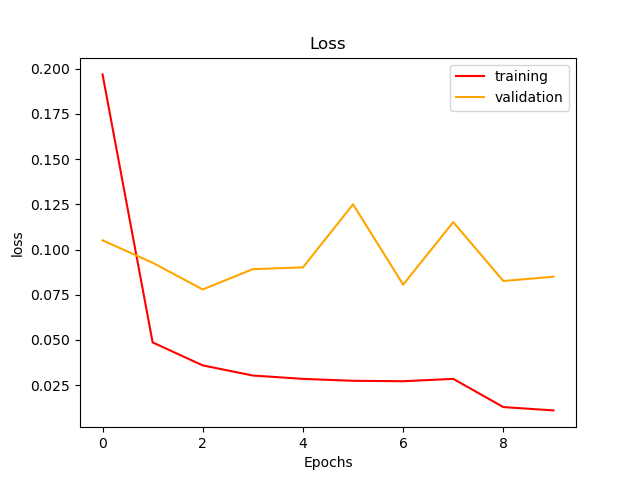
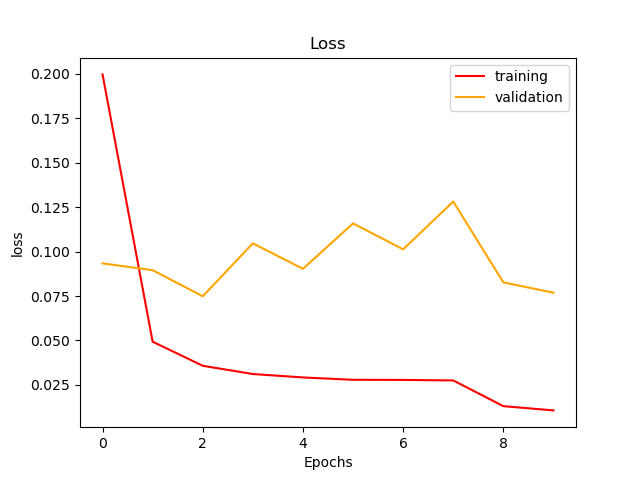
adding confusion matrix, classification report, updating readme

diff --git a/network_two_letters.py b/network_two_letters.py
@@ -5,23 +5,24 @@ import numpy as np
 import tensorflow as tf
 
 import matplotlib.pyplot as plt
-# import PIL
-# import PIL.Image
+import PIL
+import PIL.Image
 from tensorflow.keras.callbacks import EarlyStopping, ReduceLROnPlateau,ModelCheckpoint
 from keras.models import Model, Sequential
 from keras.layers import Dense, Flatten
 from keras.layers.convolutional import Conv1D, MaxPooling1D
 from sklearn.model_selection import train_test_split
 import pathlib
+from sklearn import metrics
 
 imgSize = 28
 classCount = 26
-batch_size = 128
+batch_size = 256
 
 AUTOTUNE = tf.data.AUTOTUNE
 
-
 train_dir = pathlib.Path('dataset/train/two_letters_combined/first')
+
 list_ds = tf.data.Dataset.list_files(str(train_dir/'*/*'), shuffle=True)
 image_count = len(list_ds)
 list_ds = list_ds.shuffle(image_count, reshuffle_each_iteration=True)
@@ -33,12 +34,8 @@ val_image_count = len(list_ds2)
 list_ds2 = list_ds2.shuffle(val_image_count, reshuffle_each_iteration=True)
 val_ds = list_ds2.take(val_image_count)
 
-# val_ds = list_ds.take(0)
-
-train_size = tf.data.experimental.cardinality(train_ds).numpy()
-print(train_size)
-val_size = tf.data.experimental.cardinality(val_ds).numpy()
-print(val_size)
+print(tf.data.experimental.cardinality(train_ds).numpy())
+print(tf.data.experimental.cardinality(val_ds).numpy())
 
 # class_names = np.array(sorted([item.name for item in data_dir.glob('*')]))
 class_names = ['a', 'b', 'c', 'd', 'e', 'f', 'g', 'h', 'i', 'j', 'k', 'l', 'm', 'n', 'o', 'p', 'q', 'r', 's', 't', 'u', 'v', 'w', 'x', 'y', 'z']
@@ -46,30 +43,22 @@ print(class_names)
 
 def get_label(file_path):
     parts = tf.strings.split(file_path, os.path.sep)
-    # The second to last is the class-directory
     one_hot = parts[-2] == class_names
     return one_hot
 
 def decode_img(img):
-    # convert the compressed string to a 1D uint8 tensor
     img = tf.image.decode_png(img, channels=1)
-    # resize the image to the desired size
-    # img = tf.image.resize(img, [imgSize, imgSize])
-    # img = tf.cast(tf.round(img), "int32")
-    # return tf.where(img > 100, 0.0, 1.0)
+    img = img / 255
     return img
 
 def process_path(file_path):
     label = get_label(file_path)
-    # load the raw data from the file as a string
     img = tf.io.read_file(file_path)
     img = decode_img(img)
     return img, label
 
-# Set `num_parallel_calls` so multiple images are loaded/processed in parallel.
 train_ds = train_ds.map(process_path, num_parallel_calls=AUTOTUNE)
 val_ds = val_ds.map(process_path, num_parallel_calls=AUTOTUNE)
-
 
 def configure_for_performance(ds):
     ds = ds.cache()
@@ -81,15 +70,10 @@ def configure_for_performance(ds):
 train_ds = configure_for_performance(train_ds)
 val_ds = configure_for_performance(val_ds)
 
-# for image, label in train_ds.take(1):
-#     print("Image shape: ", image.numpy().shape)
-#     print("Label: ", label.numpy())
-
-inputs = tf.keras.Input(shape=(imgSize,imgSize,1))
 model1 = tf.keras.Sequential([ 
-    inputs,
-    tf.keras.layers.experimental.preprocessing.Rescaling(1./255),
-    tf.keras.layers.Conv2D(filters = 32, kernel_size = (5,5),padding = 'Same', activation ='relu',input_shape=(imgSize,imgSize,1)),
+    tf.keras.Input(shape=(imgSize,imgSize,1)),
+    # tf.keras.layers.experimental.preprocessing.Rescaling(1./255),
+    tf.keras.layers.Conv2D(filters = 32, kernel_size = (5,5),padding = 'Same', activation ='relu'),
     tf.keras.layers.Conv2D(filters = 32, kernel_size = (5,5),padding = 'Same', activation ='relu'),
     tf.keras.layers.MaxPooling2D(pool_size=(2,2)),
     tf.keras.layers.Dropout(0.25),
@@ -104,7 +88,7 @@ model1 = tf.keras.Sequential([
 ])
 
 model1.compile(optimizer='rmsprop',loss='categorical_crossentropy',metrics=['accuracy'])
- 
+
 MCP = ModelCheckpoint('model/two_letters/Best_points.h5',verbose=1,save_best_only=True,monitor='val_accuracy',mode='max')
 ES = EarlyStopping(monitor='val_accuracy',min_delta=0,verbose=0,restore_best_weights = True,patience=5,mode='max')
 RLP = ReduceLROnPlateau(monitor='val_loss',patience=5,factor=0.2,min_lr=0.0001)
@@ -115,14 +99,7 @@ history = model1.fit(
         epochs=10,
         callbacks=[MCP,ES,RLP])
 
-# evaluate the model
-scores = model1.evaluate(train_ds)
-print("Train: %s: %.2f%%" % (model1.metrics_names[1], scores[1]*100))
-scores = model1.evaluate(val_ds)
-print("Test: %s: %.2f%%" % (model1.metrics_names[1], scores[1]*100))
-
-model1.save("model/two_letters/my_model")
-
+# save graph of accuracy and loss
 epochs = history.epoch
 loss = history.history['loss']
 validation_loss = history.history['val_loss']
@@ -146,3 +123,21 @@ plt.plot(epochs, acc, c='red', label='training')
 plt.plot(epochs, validation_acc, c='orange', label='validation')
 plt.legend(loc='best')
 plt.savefig('two_letters_acc.png')
+
+# load model with best val accuracy
+# evaluate the model
+model1 = tf.keras.models.load_model('model/two_letters/Best_points.h5')
+
+scores = model1.evaluate(train_ds)
+print("Train best val accuracy model: %s: %.2f%%" % (model1.metrics_names[1], scores[1]*100))
+scores = model1.evaluate(val_ds)
+print("Test best val accuracy model: %s: %.2f%%" % (model1.metrics_names[1], scores[1]*100))
+
+class_names = np.array(class_names)
+val_labels=[]
+val_predicted=[]
+for x, y in val_ds:
+    val_predicted.extend(class_names[model1.predict(x).argmax(axis=1)])
+    val_labels.extend(class_names[y.numpy().argmax(axis=1)])
+print(metrics.confusion_matrix(val_labels, val_predicted, labels=class_names))
+print(metrics.classification_report(val_labels, val_predicted, labels=class_names))

diff --git a/network_one_letter.py b/network_one_letter.py
@@ -13,6 +13,7 @@ from keras.layers import Dense, Flatten
 from keras.layers.convolutional import Conv1D, MaxPooling1D
 from sklearn.model_selection import train_test_split
 import pathlib
+from sklearn import metrics
 
 imgSize = 28
 classCount = 26
@@ -86,11 +87,10 @@ def configure_for_performance(ds):
 train_ds = configure_for_performance(train_ds)
 val_ds = configure_for_performance(val_ds)
 
-inputs = tf.keras.Input(shape=(imgSize,imgSize,1))
 model1 = tf.keras.Sequential([ 
-    inputs,
+    tf.keras.Input(shape=(imgSize,imgSize,1)),
     # tf.keras.layers.experimental.preprocessing.Rescaling(1./255),
-    tf.keras.layers.Conv2D(filters = 32, kernel_size = (5,5),padding = 'Same', activation ='relu',input_shape=(imgSize,imgSize,1)),
+    tf.keras.layers.Conv2D(filters = 32, kernel_size = (5,5),padding = 'Same', activation ='relu'),
     tf.keras.layers.Conv2D(filters = 32, kernel_size = (5,5),padding = 'Same', activation ='relu'),
     tf.keras.layers.MaxPooling2D(pool_size=(2,2)),
     tf.keras.layers.Dropout(0.25),
@@ -106,8 +106,6 @@ model1 = tf.keras.Sequential([
 
 model1.compile(optimizer='rmsprop',loss='categorical_crossentropy',metrics=['accuracy'])
 
-# model1 = tf.keras.models.load_model('model/one_letter/my_model')
- 
 MCP = ModelCheckpoint('model/one_letter/Best_points.h5',verbose=1,save_best_only=True,monitor='val_accuracy',mode='max')
 ES = EarlyStopping(monitor='val_accuracy',min_delta=0,verbose=0,restore_best_weights = True,patience=5,mode='max')
 RLP = ReduceLROnPlateau(monitor='val_loss',patience=5,factor=0.2,min_lr=0.0001)
@@ -118,16 +116,7 @@ history = model1.fit(
         epochs=10,
         callbacks=[MCP,ES,RLP])
 
-# evaluate the model
-scores = model1.evaluate(train_ds)
-print("Train: %s: %.2f%%" % (model1.metrics_names[1], scores[1]*100))
-scores = model1.evaluate(val_ds)
-print("Test: %s: %.2f%%" % (model1.metrics_names[1], scores[1]*100))
-
-model1.save("model/one_letter/my_model")
-# model1.save("model/one_letter/my_model2")
-
-
+# save graph of accuracy and loss
 epochs = history.epoch
 loss = history.history['loss']
 validation_loss = history.history['val_loss']
@@ -151,3 +140,23 @@ plt.plot(epochs, acc, c='red', label='training')
 plt.plot(epochs, validation_acc, c='orange', label='validation')
 plt.legend(loc='best')
 plt.savefig('one_letter_acc.png')
+
+# model1.save("model/one_letter/my_model")
+
+# load model with best val accuracy
+# evaluate the model
+model1 = tf.keras.models.load_model('model/one_letter/Best_points.h5')
+
+scores = model1.evaluate(train_ds)
+print("Train best val accuracy model: %s: %.2f%%" % (model1.metrics_names[1], scores[1]*100))
+scores = model1.evaluate(val_ds)
+print("Test best val accuracy model: %s: %.2f%%" % (model1.metrics_names[1], scores[1]*100))
+
+class_names = np.array(class_names)
+val_labels=[]
+val_predicted=[]
+for x, y in val_ds:
+    val_predicted.extend(class_names[model1.predict(x).argmax(axis=1)])
+    val_labels.extend(class_names[y.numpy().argmax(axis=1)])
+print(metrics.confusion_matrix(val_labels, val_predicted, labels=class_names))
+print(metrics.classification_report(val_labels, val_predicted, labels=class_names))

diff --git a/test_network_two_letters.py b/test_network_two_letters.py
@@ -9,9 +9,53 @@ imgSize = 28
 
 def processImage(img):
     img = cv2.resize(img, (imgSize, imgSize))
+    img = img / 255.0
     return img
 
-model1 = tf.keras.models.load_model('./model/two_letters/my_model')
+model1 = tf.keras.models.load_model('./model/two_letters/Best_points.h5')
+# os.mkdir('wrong')
+
+def test_letter(letter):
+    # os.mkdir('wrong/' + letter)
+    def recognize(img,n,good, filename):
+        n += 1
+        X = []
+        img = processImage(img)
+        X.append(img)
+        X = np.array(X).reshape(len(X), imgSize,imgSize,1)
+
+        yhat = model1.predict(X)[0]
+        arg = np.argmax(yhat)
+        if (letters[arg] == letter):
+            good += 1
+        # else:
+            # cv2.imwrite('wrong/' + letter + '/' + filename, img)
+            # print(letters[arg])
+            # cv2.imshow('img',img)
+            # cv2.waitKey(0)
+        return n,good
+
+    n = 0
+    good = 0
+    for filename in os.listdir('./dataset/validation/two_letters/' + letter):
+        if filename.endswith(".png") or filename.endswith(".jpg"): 
+            img = cv2.imread('./dataset/validation/two_letters/' + letter + '/' + filename, 0)
+            n, good = recognize(img, n, good, filename)
+
+    print(letter, good/n)
+
+test_letter('a')
+test_letter('b')
+test_letter('c')
+test_letter('d')
+test_letter('e')
+test_letter('f')
+test_letter('g')
+test_letter('h')
+test_letter('k')
+test_letter('l')
+test_letter('m')
+test_letter('n')
 
 def test_merged():
     for letter in letters:
@@ -24,6 +68,7 @@ def test_merged():
 
                 n += 1
                 X = []
+                img = img / 255.0
                 X.append(img)
                 X = np.array(X).reshape(len(X), imgSize,imgSize,1)
 
@@ -31,6 +76,11 @@ def test_merged():
                 arg = np.argmax(yhat)
                 if (letters[arg] == letter):
                     good += 1
+                # else:
+                #     print(letters[arg])
+                #     cv2.imshow('img',img)
+                #     cv2.waitKey(0)
+
 
         print(letter, good/n)
 

diff --git a/test_network_one_letter.py b/test_network_one_letter.py
@@ -11,7 +11,7 @@ def processImage(img):
     img = img / 255.0
     return img
 
-model1 = tf.keras.models.load_model('model/one_letter/my_model')
+model1 = tf.keras.models.load_model('model/one_letter/Best_points.h5')
 # os.mkdir('wrong')
 
 all_images = 0

diff --git a/README.md b/README.md
@@ -100,43 +100,16 @@ letters_recognition
     ```
 
 ## Results
-One letter
+
+### One letter
 
 Training size: 514860  
 Test size: 58677  
-Train: accuracy: 99.82%  
-Test: accuracy: 98.44%  
 
-test network one letter  
-a 0.9753566796368353  
-b 0.9641693811074918  
-c 0.9860082304526749  
-d 0.9964539007092199  
-e 0.9960915689558906  
-f 0.987045341305431  
-g 0.9762731481481481  
-h 0.9937810945273632  
-i 0.9956204379562044  
-j 0.9906890130353817  
-k 0.9947665056360708  
-l 0.9677312042581504  
-m 0.9924098671726755  
-n 0.9878787878787879  
-o 0.9889860706187237  
-p 0.9717314487632509  
-q 0.9927623642943305  
-r 0.9632183908045977  
-s 0.9929519071310116  
-t 0.976629766297663  
-u 0.9711029711029711  
-v 0.9917081260364843  
-w 0.9974160206718347  
-x 0.9771573604060914  
-y 0.9986850756081526  
-z 0.9898063200815495  
-0.9836399750107973  
+Train best val accuracy model: accuracy: 99.85%  
+Test best val accuracy model: accuracy: 98.44% (best so far 98.48)  
 
-Two letters glued together - fst letter recognition  
+### Two letters glued together - fst letter recognition  
 
 training: 200 per image pair, no rotations  
 validation: 40 per image pair, no rotations  
@@ -144,33 +117,19 @@ validation: 40 per image pair, no rotations
 Train size: 405600 (200x26x26x3)  
 Test size: 81120 (40x26x26x3)  
 
-Train: accuracy: 98.69%  
-Test: accuracy: 96.56%  
+Train best val accuracy model: accuracy: 99.60%  
+Test best val accuracy model: accuracy: 96.83%  
 
-a 0.9538461538461539  
-b 0.9538461538461539  
-c 0.9458333333333333  
-d 0.9314102564102564  
-e 0.992948717948718  
-f 0.9852564102564103  
-g 0.9846153846153847  
-h 0.9775641025641025  
-i 0.9560897435897436  
-j 0.978525641025641  
-k 0.9887820512820513  
-l 0.9426282051282051  
-m 0.969551282051282  
-n 0.9621794871794872  
-o 0.926923076923077  
-p 0.9419871794871795  
-q 0.9637820512820513  
-r 0.969551282051282  
-s 0.9814102564102564  
-t 0.9657051282051282  
-u 0.9564102564102565  
-v 0.9682692307692308  
-w 0.9634615384615385  
-x 0.9721153846153846  
-y 0.9759615384615384  
-z 0.9961538461538462  
-
+my handwritting recall   
+a 0.9515116942384484  
+b 0.9741219963031423  
+c 0.9311377245508982  
+d 0.9824198552223371  
+e 0.9654150197628458  
+f 0.9722222222222222  
+g 0.997610513739546   
+h 0.9859943977591037  
+k 0.9914529914529915  
+l 0.9906103286384976  
+m 0.9885452462772051  
+n 0.9769503546099291  
